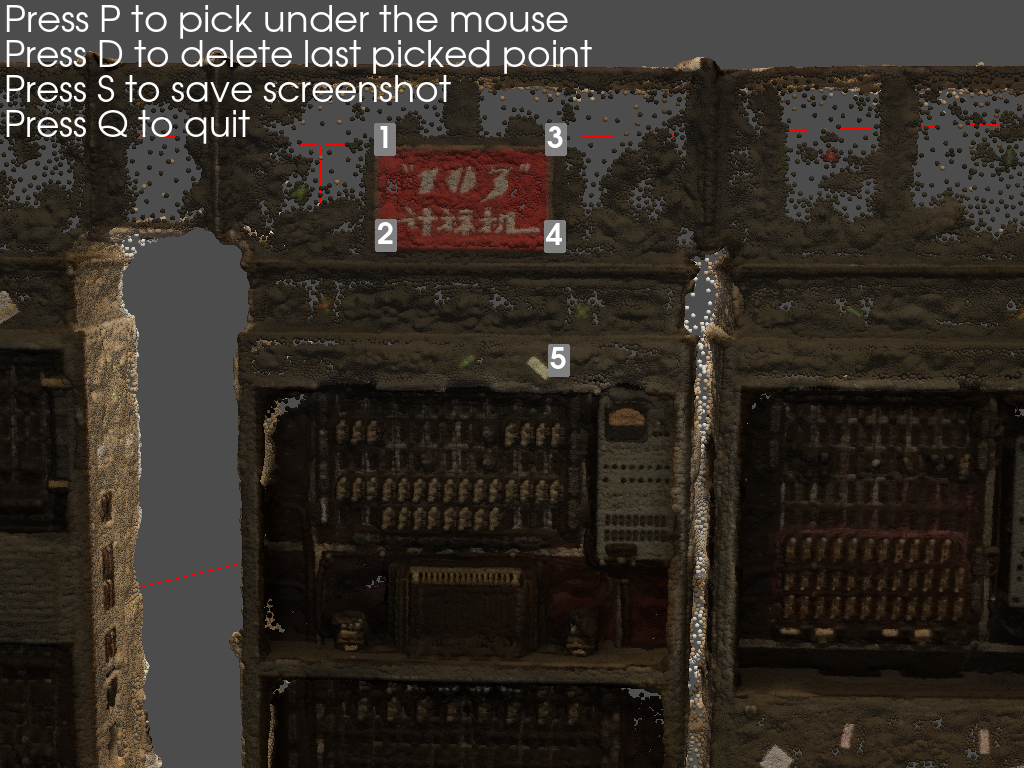
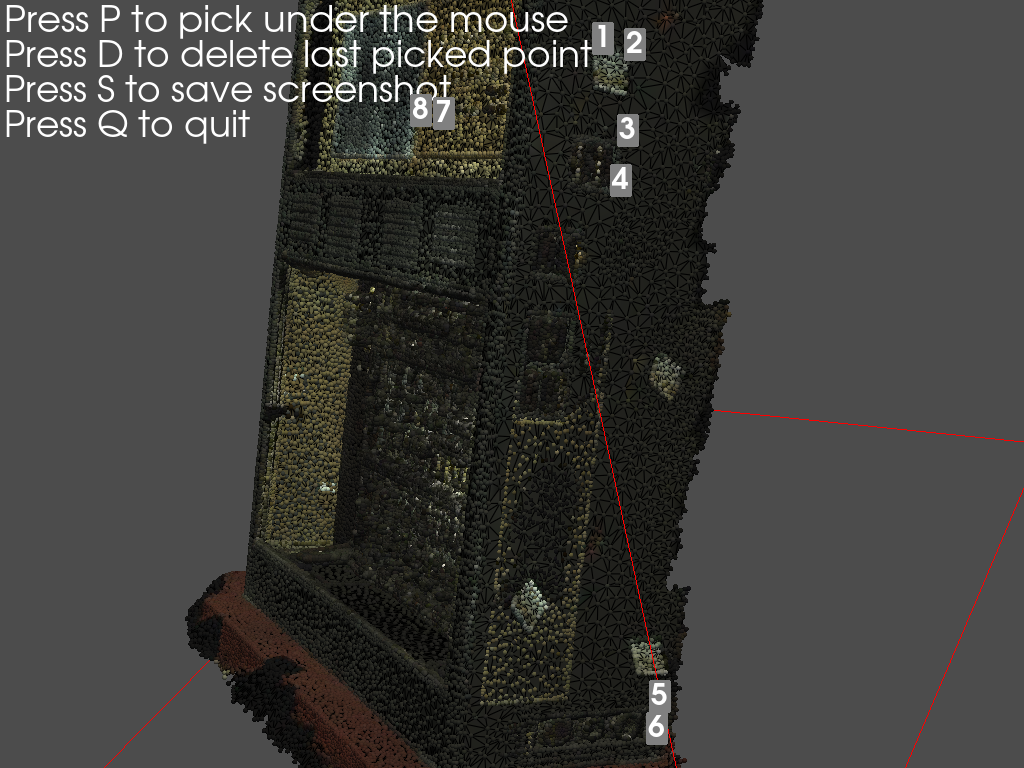
update

diff --git a/calibrate.py b/calibrate.py
@@ -4,6 +4,7 @@ import trimesh
 import threading
 import numpy as np
 import pyvista as pv
+from multiprocessing import Pool
 from matplotlib import pyplot as plt
  
 
@@ -46,11 +47,11 @@ def align_pcls(x, y):
 
 
 class FP_Recorder:
-	def __init__(self, pl, name=None):
+	def __init__(self, pl, name=None, subplot_id=None):
 		self.fp_list = []
 		self.pl = pl
 		self.name = name if name is not None else 'fp_recorder'
-		pv.global_theme.font.size = 10
+		self.subplot_id = subplot_id
 		self.pl.add_text('\nPress D to delete last picked point \nPress S to save screenshot \nPress Q to quit', font_size=18)
 		self.pl.add_key_event('d', self.callback_point_deleting)
 		self.pl.add_key_event('s', self.callback_screenshot)
@@ -61,48 +62,59 @@ class FP_Recorder:
 		if cell is not None:
 			point = cell.points.mean(axis=0)
 			self.fp_list.append(point)
+			if self.subplot_id is not None:
+				self.pl.subplot(* self.subplot_id)
 			self.pl.add_point_labels(point, [str(len(self.fp_list))], name=str(len(self.fp_list)), font_size=30)
-			print(f'{len(self.fp_list)} points now. Add: ', point)
+			print(f'{self.name}: {len(self.fp_list)} points now. Add: ', point)
 	
 	def callback_point_picking(self, point):
 		if point is not None:
 			self.fp_list.append(point)
+			if self.subplot_id is not None:
+				self.pl.subplot(* self.subplot_id)
 			self.pl.add_point_labels(point, [str(len(self.fp_list))], name=str(len(self.fp_list)), font_size=30)
-			print(f'{len(self.fp_list)} points now. Add: ', point)
+			print(f'{self.name}: {len(self.fp_list)} points now. Add: ', point)
 	
 	def callback_point_deleting(self, *args):
 		if len(self.fp_list) > 0:
-			print('Delete a point: ', self.fp_list[-1])
+			print(f'{self.name}: Delete a point: ', self.fp_list[-1])
+			if self.subplot_id is not None:
+				self.pl.subplot(* self.subplot_id)
 			self.pl.remove_actor(str(len(self.fp_list)))
 			self.fp_list = self.fp_list[:-1]
-			print(f'{len(self.fp_list)} points now.')
+			print(f'{self.name}: {len(self.fp_list)} points now.')
 
 	def callback_screenshot(self, *args):
 		path = './' + self.name + '.png'
 		self.pl.screenshot(filename=path)
-		print('Saved screenshot in ', path)
+		print(f'{self.name}: Saved screenshot in ', path)
 
 	def callback_quit(self, *args):
 		self.pl.screenshot(filename=self.screenshot_path)
-		print('Saved screenshot in ', self.screenshot_path)
+		print(f'{self.name}: Saved screenshot in ', self.screenshot_path)
 		self.pl.close()
 		pv.close_all()
 
 
-def mark_fp(mesh_path, pick_cell=False, name=None):
+def mark_fp_single(mesh_path, pick_cell=False, name=None):
 	trimesh_mesh = trimesh.load(mesh_path, process=False)
-	colors = trimesh_mesh.visual.vertex_colors[:, :4]
+	if hasattr(trimesh_mesh.visual, 'vertex_colors'):
+		colors = trimesh_mesh.visual.vertex_colors[:, :4]
+	else:
+		colors = trimesh_mesh.visual.material.to_color(trimesh_mesh.visual.uv)
 	fp_list = []
 	print('Reading mesh file...')
-	mesh = pv.read(mesh_path)
+	mesh = pv.PolyData(trimesh_mesh.vertices, np.concatenate([3*np.ones_like(trimesh_mesh.faces[:, :1]), trimesh_mesh.faces], axis=-1).reshape([-1, 4]))
 	print('Plotting...')
-	pl = pv.Plotter()
+	pl = pv.Plotter(title=name)
 	recorder = FP_Recorder(pl=pl, name=name)
 	if pick_cell:
 		mesh["colors"] = colors[:, :3]
 		pl.add_mesh(mesh, show_edges=True, scalars="colors", rgb=True)
 		pl.enable_cell_picking(through=False, callback=recorder.callback_cell_picking, style='points')
 	else:
+		mesh["colors"] = colors[:, :3]
+		pl.add_mesh(mesh, show_edges=True, scalars="colors", rgb=True)
 		pl.add_points(mesh.points, render_points_as_spheres=True, scalars=colors, rgb=True)
 		pl.enable_point_picking(callback=recorder.callback_point_picking, left_clicking=False, show_point=True)
 	pl.show()
@@ -111,13 +123,15 @@ def mark_fp(mesh_path, pick_cell=False, name=None):
 	return fp_list, recorder.screenshot_path
 
 
-def align_scenes(source_path, target_path, sv_path):
+def align_scenes_mark_1by1(source_path, target_path, sv_path):
+	# Mark source
 	fp_src = []
 	while len(fp_src) == 0:
 		print('Need to mark source feature points')
-		fp_src, screenshot_path_src = mark_fp(source_path, name='src')
+		fp_src, screenshot_path_src = mark_fp_single(source_path, name='src')
 	print('Reading src screenshot')
 
+	# Plot source marks
 	if os.path.exists(screenshot_path_src):
 		screenshot_src = imageio.imread(screenshot_path_src)
 		print('Showing src screenshot')
@@ -126,22 +140,59 @@ def align_scenes(source_path, target_path, sv_path):
 		plt.show(block=False)
 		plt.pause(1)
 	
+	# Mark target
 	fp_trg = []
 	while len(fp_trg) != len(fp_src):
 		print('Need to mark target feature points')
-		fp_trg, _ = mark_fp(target_path, name='trg')
+		fp_trg, _ = mark_fp_single(target_path, name='trg')
 
+	# Aligning source to target
 	print('Aligning...')
 	affine = align_pcls(fp_src, fp_trg)
-	mesh = trimesh.load_mesh(source_path)
+	mesh = trimesh.load_mesh(source_path, process=False)
 	vertices = np.concatenate([mesh.vertices, np.ones_like(mesh.vertices[:, :1])], axis=-1)
 	vertices = (affine @ vertices.T).T
 	mesh.vertices = vertices[..., :3]
+
+	# Set material
+	mesh.visual.material.ambient = 255 * np.ones_like(mesh.visual.material.ambient)
+	mesh.visual.material.diffuse = 255 * np.ones_like(mesh.visual.material.diffuse)
+	mesh.visual.material.specular = 255 * np.ones_like(mesh.visual.material.specular)
+	mesh.export(sv_path)
+
+
+def mark_fp_double(source_path, target_path):
+	with Pool(2) as p:
+		result_src, result_trg = p.starmap(mark_fp_single, [(source_path, None, 'source'), (target_path, None, 'target')])
+	fp_list_src, _ = result_src
+	fp_list_trg, _ = result_trg
+	return fp_list_src, fp_list_trg
+
+
+def align_scenes(source_path, target_path, sv_path):
+	# Mark source
+	fp_src, fp_trg = [], []
+	while len(fp_src) != len(fp_trg) or len(fp_src) < 1:
+		print('Need to annotate mark points.')
+		fp_src, fp_trg = mark_fp_double(source_path, target_path)
+
+	# Aligning source to target
+	print('Aligning...')
+	affine = align_pcls(fp_src, fp_trg)
+	mesh = trimesh.load_mesh(source_path, process=False)
+	vertices = np.concatenate([mesh.vertices, np.ones_like(mesh.vertices[:, :1])], axis=-1)
+	vertices = (affine @ vertices.T).T
+	mesh.vertices = vertices[..., :3]
+
+	# Set material
+	mesh.visual.material.ambient = 255 * np.ones_like(mesh.visual.material.ambient)
+	mesh.visual.material.diffuse = 255 * np.ones_like(mesh.visual.material.diffuse)
+	mesh.visual.material.specular = 255 * np.ones_like(mesh.visual.material.specular)
 	mesh.export(sv_path)
 
 
 if __name__ == '__main__':
-	source_path = '../103_up_dj.ply'
-	target_path = '../103_front_dj.ply'
-	sv_path = '../103_up2front_dj.ply'
+	source_path = '../eva/103A.ply'
+	target_path = '../eva/103A3.align.ply'
+	sv_path = '../eva/103A_.obj'
 	align_scenes(source_path=source_path, target_path=target_path, sv_path=sv_path)

diff --git a/README.md b/README.md
@@ -2,6 +2,10 @@
 
 - Change the source, target, and save pathes of 3D models in calibrate.py.
 
+## Mark 1by1 mode
+
+- Use *align_scenes_mark_1by1* function in calibrate.py.
+
 - > python calibrate.py
 
 - Mark the selected feature points in the first UI frame: press P to pick a point, D to delete the last point, S to save the current screenshot, Q to quit.
@@ -9,3 +13,11 @@
 - The program will display the marked points in the saved screenshot and generate another UI frame for the user to mark corresponding feature points on the target model. Done with pressing Q.
 
 - The optimal scale, rotation, and translation will be calculated based on the marked pairs and transform the source model to align with the target. Result will be saved in sv_path.
+
+## Mark simultaneously mode
+
+- Use *align_scenes* function in calibrate.py.
+
+- >  python calibrate.py
+
+- Mark the selected feature points in two UI frames (source & target). Press Q to quit.
